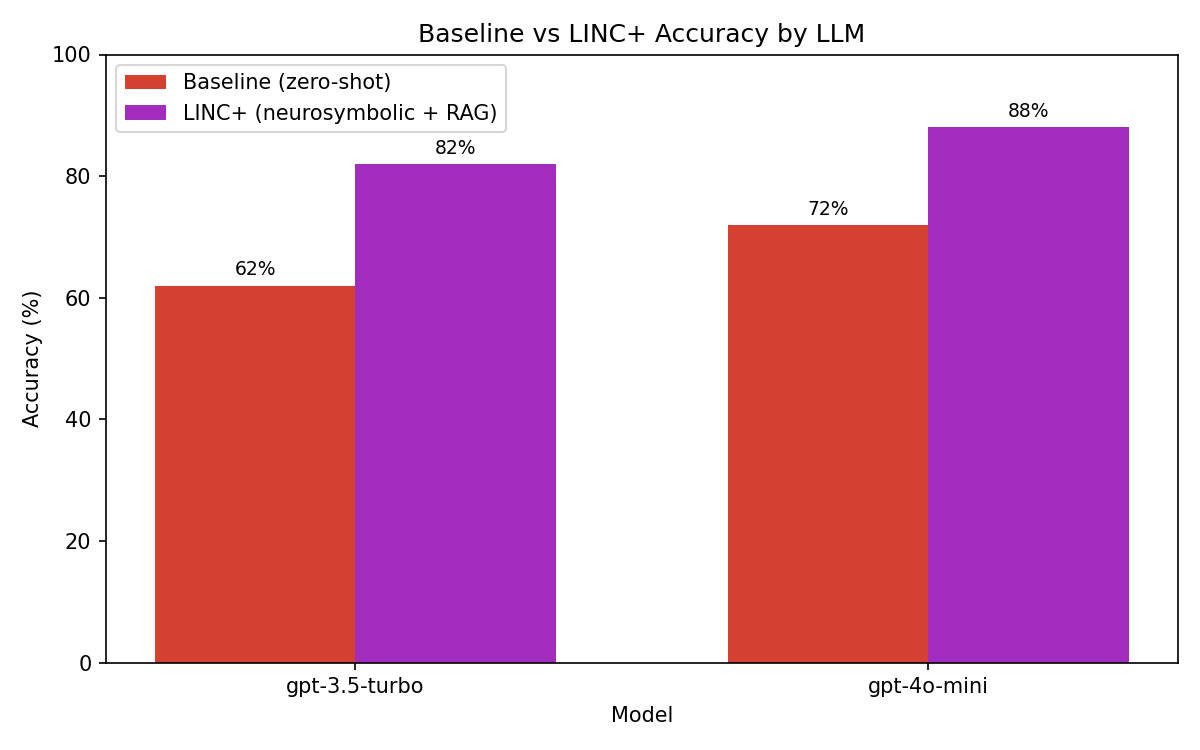
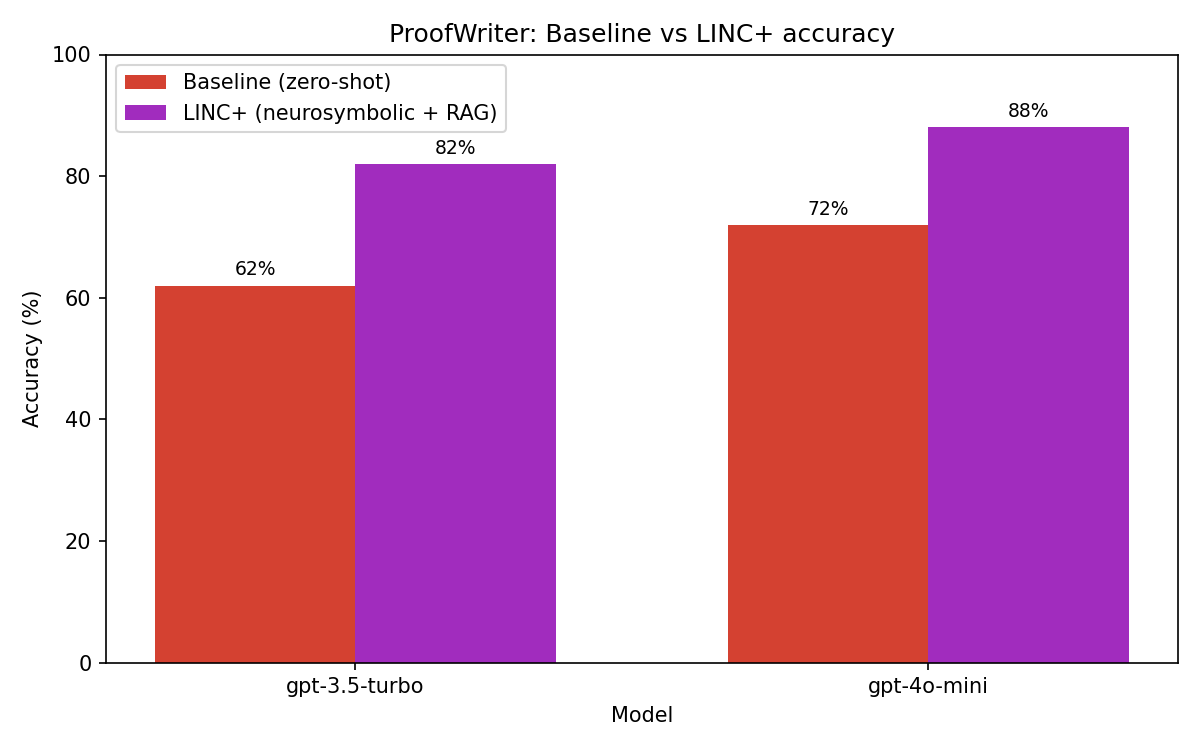
fixing up task 8

Changed region(s): [[0.3083, 0.0307, 0.74, 0.0613]]

diff --git a/task8/myPlot.py b/task8/myPlot.py
@@ -28,7 +28,7 @@ def plot_results(results: dict):
 
     ax.set_xlabel("Model")
     ax.set_ylabel("Accuracy (%)")
-    ax.set_title("Baseline vs LINC+ Accuracy by LLM")
+    ax.set_title("ProofWriter: Baseline vs LINC+ accuracy")
     ax.set_xticks(x)
     ax.set_xticklabels(models)
     ax.set_ylim(0, 100)

diff --git a/task8/README.md b/task8/README.md
@@ -32,9 +32,13 @@ myPlot.py: graph (make plt) the accuracy of models tested
 
 
 #================================================================#
-Notes:
+SETUP
 #================================================================#
-- This md is not refined yet. Needs more expansion later
+1. Clone repo
+2. Install requirements.txt
+3. Setup myProg.py
+4. Use Makefile commands
+
 
 
 
